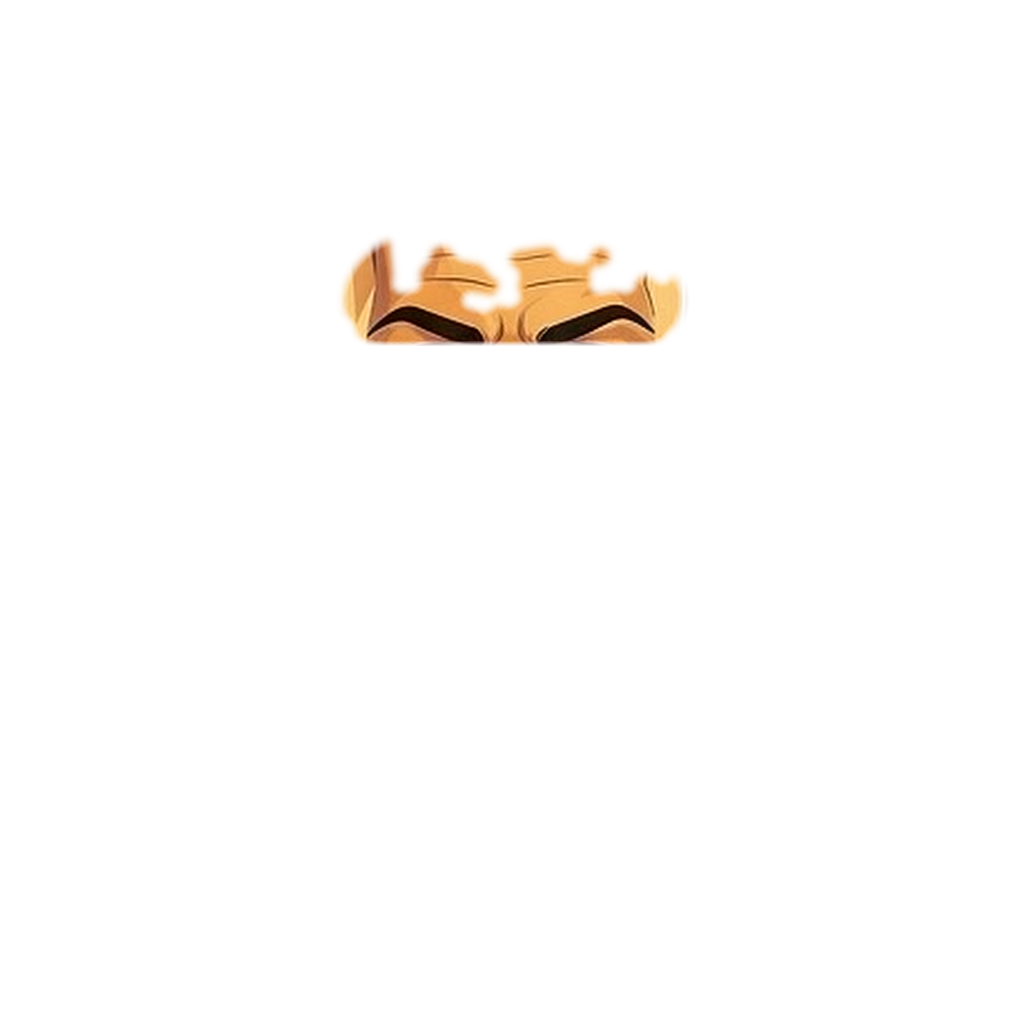
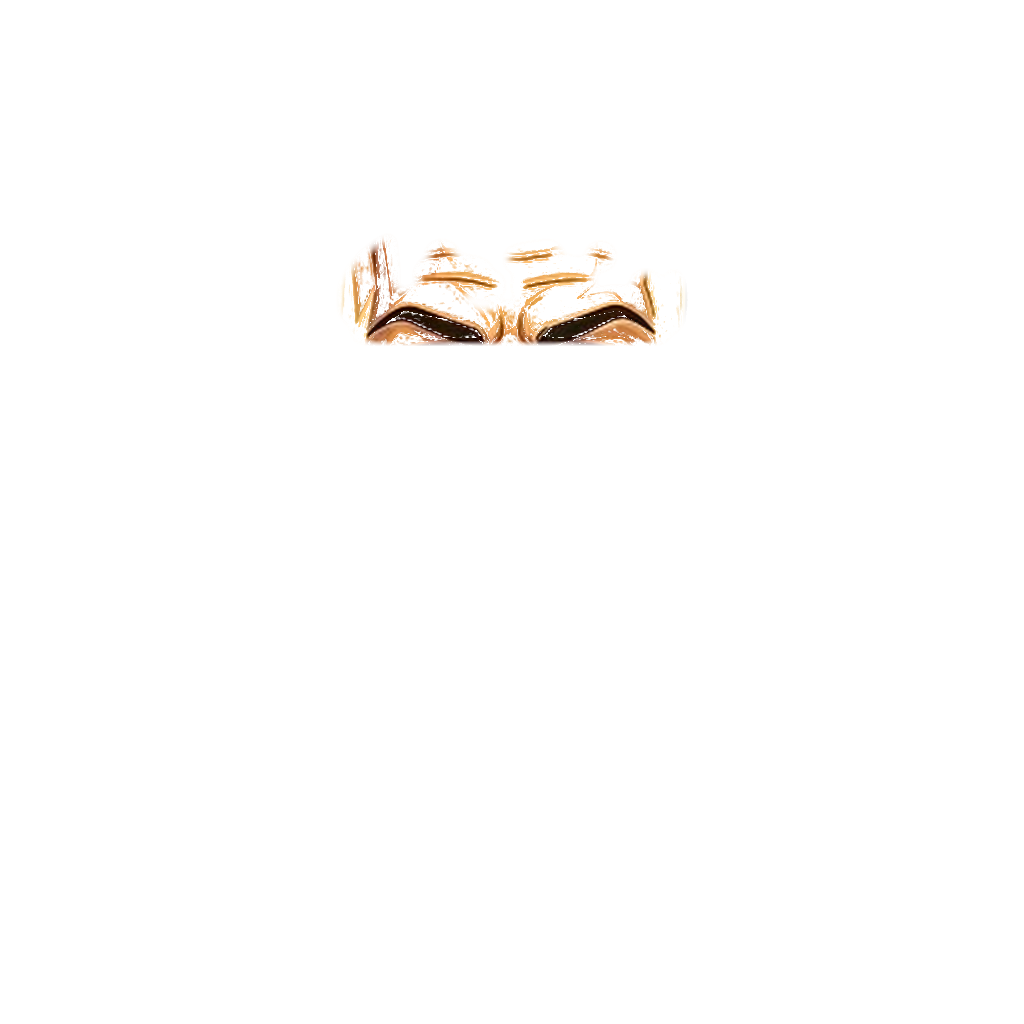
Character layers: base without its own eyes, brows under eyes, softened eye patches (no doubled eyelids)

Changed region(s): [[0.3125, 0.2188, 0.6875, 0.3438]]

diff --git a/js/looks.js b/js/looks.js
@@ -1,17 +1,6 @@
 // Generated by tools/looks.ps1 from assets/postava. Do not edit by hand: add PNG layers and run the script.
 export const LOOK_BASE = 'assets/postava/ucesy/base_head.png';
 export const LOOK_PARTS = [
-  { id: 'oci', name: 'Oči', optional: false, items: [
-    { id: 'eyes_01_sleepy', name: 'sleepy', src: 'assets/postava/oci/eyes_01_sleepy.png' },
-    { id: 'eyes_02_squint', name: 'squint', src: 'assets/postava/oci/eyes_02_squint.png' },
-    { id: 'eyes_03_wide_stare', name: 'wide stare', src: 'assets/postava/oci/eyes_03_wide_stare.png' },
-    { id: 'eyes_04_side_eye', name: 'side eye', src: 'assets/postava/oci/eyes_04_side_eye.png' },
-    { id: 'eyes_05_calm', name: 'calm', src: 'assets/postava/oci/eyes_05_calm.png' },
-    { id: 'eyes_06_tired_bags', name: 'tired bags', src: 'assets/postava/oci/eyes_06_tired_bags.png' },
-    { id: 'eyes_07_cold_light', name: 'cold light', src: 'assets/postava/oci/eyes_07_cold_light.png' },
-    { id: 'eyes_08_wink', name: 'wink', src: 'assets/postava/oci/eyes_08_wink.png' },
-    { id: 'eyes_09_black_eye', name: 'black eye', src: 'assets/postava/oci/eyes_09_black_eye.png' },
-  ] },
   { id: 'obocie', name: 'Obočie', optional: false, items: [
     { id: 'brows_01_angry', name: 'angry', src: 'assets/postava/obocie/brows_01_angry.png' },
     { id: 'brows_02_one_raised', name: 'one raised', src: 'assets/postava/obocie/brows_02_one_raised.png' },
@@ -22,6 +11,17 @@ export const LOOK_PARTS = [
     { id: 'brows_07_faint', name: 'faint', src: 'assets/postava/obocie/brows_07_faint.png' },
     { id: 'brows_08_thin_arched', name: 'thin arched', src: 'assets/postava/obocie/brows_08_thin_arched.png' },
     { id: 'brows_09_heavy_dark', name: 'heavy dark', src: 'assets/postava/obocie/brows_09_heavy_dark.png' },
+  ] },
+  { id: 'oci', name: 'Oči', optional: false, items: [
+    { id: 'eyes_01_sleepy', name: 'sleepy', src: 'assets/postava/oci/eyes_01_sleepy.png' },
+    { id: 'eyes_02_squint', name: 'squint', src: 'assets/postava/oci/eyes_02_squint.png' },
+    { id: 'eyes_03_wide_stare', name: 'wide stare', src: 'assets/postava/oci/eyes_03_wide_stare.png' },
+    { id: 'eyes_04_side_eye', name: 'side eye', src: 'assets/postava/oci/eyes_04_side_eye.png' },
+    { id: 'eyes_05_calm', name: 'calm', src: 'assets/postava/oci/eyes_05_calm.png' },
+    { id: 'eyes_06_tired_bags', name: 'tired bags', src: 'assets/postava/oci/eyes_06_tired_bags.png' },
+    { id: 'eyes_07_cold_light', name: 'cold light', src: 'assets/postava/oci/eyes_07_cold_light.png' },
+    { id: 'eyes_08_wink', name: 'wink', src: 'assets/postava/oci/eyes_08_wink.png' },
+    { id: 'eyes_09_black_eye', name: 'black eye', src: 'assets/postava/oci/eyes_09_black_eye.png' },
   ] },
   { id: 'ucesy', name: 'Účes', optional: false, items: [
     { id: 'hair_01_buzz_fade', name: 'buzz fade', src: 'assets/postava/ucesy/hair_01_buzz_fade.png' },

diff --git a/js/remote.js b/js/remote.js
@@ -1,10 +1,10 @@
 // Online client: the same SimServer, but only as a read-only mirror of the state the real server sent.
 // Every action goes to the Edge Function "game"; its answer replaces the mirror. Things the server rolls
 // at random (mission offers, shop stock, arena opponents, rival gang moves) are never rolled here.
-import { SimServer } from './server.js?v=20261020224942';
-import { NET } from './net.js?v=20261020224942';
-import { CONFIG } from './config.js?v=20261020224942';
-import { SHOPS } from './data.js?v=20261020224942';
+import { SimServer } from './server.js?v=20261020225638';
+import { NET } from './net.js?v=20261020225638';
+import { CONFIG } from './config.js?v=20261020225638';
+import { SHOPS } from './data.js?v=20261020225638';
 
 const SUPABASE_JS = 'https://cdn.jsdelivr.net/npm/@supabase/supabase-js@2.45.4/+esm';
 
@@ -29,7 +29,7 @@ export class RemoteServer extends SimServer {
 
   // ?mock in the address: no Supabase, the server API runs in this browser against an in-memory database
   async initMock() {
-    const { handle, memoryDb } = await import('./api.js?v=20261020224942');
+    const { handle, memoryDb } = await import('./api.js?v=20261020225638');
     const db = memoryDb();
     const fake = { user: { id: 'mock-user', email: 'test@mock' } };
     this.sb = { auth: { signOut: async () => {}, signInWithPassword: async () => ({ data: { session: fake } }), signUp: async () => ({ data: { session: fake } }), resetPasswordForEmail: async () => ({}) } };

diff --git a/js/server.js b/js/server.js
@@ -1,9 +1,9 @@
 // Simulated game server. Every rule about money, rewards and fights lives here, so this module
 // can later move to a real backend (Supabase / Nakama) while the client keeps the same calls.
-import { CONFIG, F, STATS, STAT_NAMES, CLASSES, RARITIES, clamp, localParts } from './config.js?v=20261020224942';
-import { ITEM_BASES, SHOPS, MISSIONS, GIVERS, BOSSES, BOT_NAMES, SLOTS } from './data.js?v=20261020224942';
-import { makeFighter, simulate } from './combat.js?v=20261020224942';
-import { GangMixin } from './gangs.js?v=20261020224942';
+import { CONFIG, F, STATS, STAT_NAMES, CLASSES, RARITIES, clamp, localParts } from './config.js?v=20261020225638';
+import { ITEM_BASES, SHOPS, MISSIONS, GIVERS, BOSSES, BOT_NAMES, SLOTS } from './data.js?v=20261020225638';
+import { makeFighter, simulate } from './combat.js?v=20261020225638';
+import { GangMixin } from './gangs.js?v=20261020225638';
 
 const KEY = 'hitsnlicks.save.v1';
 const MIN = 60000;

diff --git a/js/main.js b/js/main.js
@@ -1,9 +1,9 @@
-import { SimServer } from './server.js?v=20261020224942';
-import { RemoteServer } from './remote.js?v=20261020224942';
-import { ONLINE } from './net.js?v=20261020224942';
-import { CONFIG } from './config.js?v=20261020224942';
-import { UI } from './ui.js?v=20261020224942';
-import { createWorld } from './world.js?v=20261020224942';
+import { SimServer } from './server.js?v=20261020225638';
+import { RemoteServer } from './remote.js?v=20261020225638';
+import { ONLINE } from './net.js?v=20261020225638';
+import { CONFIG } from './config.js?v=20261020225638';
+import { UI } from './ui.js?v=20261020225638';
+import { createWorld } from './world.js?v=20261020225638';
 
 // warm the browser cache so screens open without blank images
 ['maska', 'don', 'diler', 'kladivo', 'fightbg', 'it_pistol', 'it_bat', 'it_jacket', 'it_pants', 'it_sneaker', 'it_chain', 'it_ring', 'it_watch', 'it_duffel', 'it_package', 'it_keys']

diff --git a/js/gangs.js b/js/gangs.js
@@ -1,9 +1,9 @@
 // Gangs (guilds like in Shakes & Fidget) and Gang Wars: turf objects on the map give the whole gang
 // a bonus while it holds them. Rival gangs are computer-run until a real server brings real players.
 // Mixed into SimServer, so `this` is the server.
-import { CONFIG, F, STATS, CLASSES, RARITIES } from './config.js?v=20261020224942';
-import { TURF, TURF_KINDS, RIVAL_GANGS, GANG_COLORS, GANG_UPGRADES, BOT_NAMES } from './data.js?v=20261020224942';
-import { makeFighter, simulate, mulberry32 } from './combat.js?v=20261020224942';
+import { CONFIG, F, STATS, CLASSES, RARITIES } from './config.js?v=20261020225638';
+import { TURF, TURF_KINDS, RIVAL_GANGS, GANG_COLORS, GANG_UPGRADES, BOT_NAMES } from './data.js?v=20261020225638';
+import { makeFighter, simulate, mulberry32 } from './combat.js?v=20261020225638';
 
 const MIN = 60000;
 const ok = (data = {}) => ({ ok: true, ...data });

diff --git a/js/world.js b/js/world.js
@@ -1,7 +1,7 @@
 // The open world: pixel-art city, player movement, NPCs, traffic, police. Uses global Phaser.
 // The city (Mesto 1) comes from assets/world/city.json, made by tools/art/City.cs: a collision grid,
 // a street graph that cars, police, walkers, the Ripper and the runner move on, and the buildings (marks).
-import { NPCS, POIS, SPAWN, LABELS, TURF, TRAFFIC_CARS, POLICE_CARS, WALKER_SPRITES, WALKER_COUNT } from './data.js?v=20261020224942';
+import { NPCS, POIS, SPAWN, LABELS, TURF, TRAFFIC_CARS, POLICE_CARS, WALKER_SPRITES, WALKER_COUNT } from './data.js?v=20261020225638';
 
 const PEOPLE = ['hrac', 'zlodej', 'svalovec', 'dealer', 'boss', 'zadavatel', 'diler', 'mechanik', 'pravnicka', 'lekarka', 'policajt', 'chodkyna', 'chodec'];
 const CARS = ['sedan_blue', 'sedan_red', 'sedan_green', 'sedan_white', 'taxi', 'police', 'van', 'pickup'];

diff --git a/js/ui.js b/js/ui.js
@@ -1,7 +1,7 @@
 // HTML interface: HUD, menus, screens, modals. Talks only to the (simulated) server.
-import { STATS, STAT_NAMES, CLASSES, RARITIES, CONFIG, F } from './config.js?v=20261020224942';
-import { SLOTS, ITEM_BASES, SHOPS, MISSIONS, GIVERS, BOSSES, GANG_COLORS, GANG_RANKS, GANG_UPGRADES } from './data.js?v=20261020224942';
-import { LOOK_BASE, LOOK_PARTS } from './looks.js?v=20261020224942';
+import { STATS, STAT_NAMES, CLASSES, RARITIES, CONFIG, F } from './config.js?v=20261020225638';
+import { SLOTS, ITEM_BASES, SHOPS, MISSIONS, GIVERS, BOSSES, GANG_COLORS, GANG_RANKS, GANG_UPGRADES } from './data.js?v=20261020225638';
+import { LOOK_BASE, LOOK_PARTS } from './looks.js?v=20261020225638';
 
 const $ = (sel, el = document) => el.querySelector(sel);
 const fmt = (n) => Math.round(n).toLocaleString('sk-SK');

diff --git a/index.html b/index.html
@@ -8,7 +8,7 @@
 <link rel="preconnect" href="https://fonts.googleapis.com">
 <link rel="preconnect" href="https://fonts.gstatic.com" crossorigin>
 <link href="https://fonts.googleapis.com/css2?family=Grenze+Gotisch:wght@500;700;900&amp;family=EB+Garamond:ital,wght@0,400;0,500;0,600;0,700;1,400&amp;display=swap" rel="stylesheet">
-<link rel="stylesheet" href="css/style.css?v=20261020224942">
+<link rel="stylesheet" href="css/style.css?v=20261020225638">
 <script src="https://cdn.jsdelivr.net/npm/phaser@3.80.1/dist/phaser.min.js"></script>
 </head>
 <body>
@@ -70,6 +70,6 @@
   <div id="modal" hidden></div>
   <div id="toasts"></div>
 </div>
-<script type="module" src="js/main.js?v=20261020224942"></script>
+<script type="module" src="js/main.js?v=20261020225638"></script>
 </body>
 </html>

diff --git a/js/api.js b/js/api.js
@@ -11,8 +11,8 @@
 //   ladder(n) -> [{ id, name, points }]
 //   addPoints(id, delta)
 //   deletePlayer(id)
-import { SimServer } from './server.js?v=20261020224942';
-import { GIVERS, SHOPS } from './data.js?v=20261020224942';
+import { SimServer } from './server.js?v=20261020225638';
+import { GIVERS, SHOPS } from './data.js?v=20261020225638';
 
 const memStore = { load: () => null, save() {}, clear() {} };
 const fail = (error) => ({ ok: false, error });

diff --git a/js/combat.js b/js/combat.js
@@ -1,5 +1,5 @@
 // Automatic stat-based combat. Pure functions: the real server would run exactly this.
-import { CONFIG, F } from './config.js?v=20261020224942';
+import { CONFIG, F } from './config.js?v=20261020225638';
 
 export function mulberry32(seed) {
   let a = seed >>> 0;

diff --git a/tools/art/Layers.cs b/tools/art/Layers.cs
@@ -1,0 +1,165 @@
+using System;
+using System.Drawing;
+using System.Drawing.Imaging;
+using System.Runtime.InteropServices;
+
+public static class Layers
+{
+    public static int[] Load(string path, out int w, out int h)
+    {
+        using (var src = new Bitmap(path))
+        using (var bmp = new Bitmap(src.Width, src.Height, PixelFormat.Format32bppArgb))
+        {
+            using (var g = Graphics.FromImage(bmp)) g.DrawImage(src, 0, 0, src.Width, src.Height);
+            w = bmp.Width; h = bmp.Height;
+            var d = new int[w * h];
+            var bd = bmp.LockBits(new Rectangle(0, 0, w, h), ImageLockMode.ReadOnly, PixelFormat.Format32bppArgb);
+            Marshal.Copy(bd.Scan0, d, 0, d.Length);
+            bmp.UnlockBits(bd);
+            return d;
+        }
+    }
+
+    public static void Save(int[] d, int w, int h, string path)
+    {
+        using (var bmp = new Bitmap(w, h, PixelFormat.Format32bppArgb))
+        {
+            var bd = bmp.LockBits(new Rectangle(0, 0, w, h), ImageLockMode.WriteOnly, PixelFormat.Format32bppArgb);
+            Marshal.Copy(d, 0, bd.Scan0, d.Length);
+            bmp.UnlockBits(bd);
+            bmp.Save(path, ImageFormat.Png);
+        }
+    }
+
+    static int Diff(int a, int b)
+    {
+        return Math.Abs(((a >> 16) & 255) - ((b >> 16) & 255)) + Math.Abs(((a >> 8) & 255) - ((b >> 8) & 255)) + Math.Abs((a & 255) - (b & 255));
+    }
+
+    // keep only what a layer really changes: pixels equal to the base fade out (diff lo..hi -> alpha 0..1)
+    public static string Trim(string basePath, string layerPath, string outPath, int lo, int hi)
+    {
+        int w, h, w2, h2;
+        var b = Load(basePath, out w, out h);
+        var l = Load(layerPath, out w2, out h2);
+        int kept = 0, cut = 0;
+        for (int i = 0; i < l.Length; i++)
+        {
+            int c = l[i]; int a = (c >> 24) & 255;
+            if (a == 0) continue;
+            int d = Diff(c, b[i]);
+            double k = d <= lo ? 0 : d >= hi ? 1 : (d - lo) / (double)(hi - lo);
+            int na = (int)Math.Round(a * k);
+            if (na < a) cut++; if (na > 0) kept++;
+            l[i] = (na << 24) | (c & 0xFFFFFF);
+        }
+        Save(l, w2, h2, outPath);
+        return kept + " kept, " + cut + " faded";
+    }
+
+    // paint over a box with skin interpolated from its edges (vertical and horizontal blend), soft border
+    public static void Erase(int[] d, int w, int x0, int y0, int x1, int y1, int feather)
+    {
+        var src = (int[])d.Clone();
+        for (int y = y0; y <= y1; y++)
+            for (int x = x0; x <= x1; x++)
+            {
+                double ty = (y - y0 + 1) / (double)(y1 - y0 + 2), tx = (x - x0 + 1) / (double)(x1 - x0 + 2);
+                int T = src[(y0 - 1) * w + x], B = src[(y1 + 1) * w + x], L = src[y * w + x0 - 1], R = src[y * w + x1 + 1];
+                double wy = 1.0 / (Math.Min(ty, 1 - ty) + 0.05), wx = 1.0 / (Math.Min(tx, 1 - tx) + 0.05);
+                // blend along the shorter direction more strongly
+                double k = wy / (wy + wx);
+                int c = 0;
+                for (int sh = 0; sh <= 16; sh += 8)
+                {
+                    double v = ((T >> sh) & 255) * (1 - ty) + ((B >> sh) & 255) * ty;
+                    double hh = ((L >> sh) & 255) * (1 - tx) + ((R >> sh) & 255) * tx;
+                    c |= ((int)Math.Round(v * k + hh * (1 - k)) & 255) << sh;
+                }
+                // soft edge back into the original picture
+                int e = Math.Min(Math.Min(x - x0, x1 - x), Math.Min(y - y0, y1 - y));
+                double m = e >= feather ? 1 : (e + 1) / (double)(feather + 1);
+                int o = src[y * w + x], r = 0;
+                for (int sh = 0; sh <= 16; sh += 8) r |= ((int)Math.Round(((c >> sh) & 255) * m + ((o >> sh) & 255) * (1 - m)) & 255) << sh;
+                d[y * w + x] = unchecked((int)0xFF000000) | r;
+            }
+    }
+
+    // fill an ellipse-ish box with plain skin: the median of the light pixels around it, a touch darker at the bottom
+    public static void Skin(int[] d, int w, int x0, int y0, int x1, int y1, int feather)
+    {
+        var rs = new System.Collections.Generic.List<int>(); var gs = new System.Collections.Generic.List<int>(); var bs = new System.Collections.Generic.List<int>();
+        for (int y = y0 - 12; y <= y1 + 12; y++) for (int x = x0 - 12; x <= x1 + 12; x++)
+            {
+                if (x >= x0 && x <= x1 && y >= y0 && y <= y1) continue;
+                int c = d[y * w + x], r = (c >> 16) & 255, g = (c >> 8) & 255, b = c & 255;
+                if (0.299 * r + 0.587 * g + 0.114 * b < 95) continue; // skip ink lines and brows, keep the mid tones
+                rs.Add(r); gs.Add(g); bs.Add(b);
+            }
+        rs.Sort(); gs.Sort(); bs.Sort();
+        int R = rs[rs.Count / 2], G = gs[gs.Count / 2], B = bs[bs.Count / 2];
+        double cx = (x0 + x1) / 2.0, cy = (y0 + y1) / 2.0, ax = (x1 - x0) / 2.0, ay = (y1 - y0) / 2.0;
+        for (int y = y0 - feather; y <= y1 + feather; y++)
+            for (int x = x0 - feather; x <= x1 + feather; x++)
+            {
+                double nx = (x - cx) / (ax + feather), ny = (y - cy) / (ay + feather);
+                double dist = Math.Sqrt(nx * nx + ny * ny);
+                double inner = 1 - feather / (Math.Min(ax, ay) + feather);
+                double m = dist <= inner ? 1 : dist >= 1 ? 0 : (1 - dist) / (1 - inner);
+                if (m <= 0) continue;
+                double shade = 1 - 0.08 * Math.Max(0, (y - cy) / ay); // slightly darker under the eye
+                int o = d[y * w + x];
+                int r2 = (int)Math.Round(R * shade * m + ((o >> 16) & 255) * (1 - m));
+                int g2 = (int)Math.Round(G * shade * m + ((o >> 8) & 255) * (1 - m));
+                int b2 = (int)Math.Round(B * shade * m + (o & 255) * (1 - m));
+                d[y * w + x] = unchecked((int)0xFF000000) | (r2 << 16) | (g2 << 8) | b2;
+            }
+    }
+
+    public static void CleanBase(string inPath, string outPath, int[] boxes, int feather)
+    {
+        int w, h;
+        var d = Load(inPath, out w, out h);
+        for (int i = 0; i + 3 < boxes.Length; i += 4) Skin(d, w, boxes[i], boxes[i + 1], boxes[i + 2], boxes[i + 3], feather);
+        Save(d, w, h, outPath);
+    }
+
+    // fade a layer in from transparent at row y0 to its own alpha at row y1 (hides a hard top edge)
+    public static void FadeTop(string inPath, string outPath, int y0, int y1)
+    {
+        int w, h;
+        var d = Load(inPath, out w, out h);
+        for (int y = 0; y < Math.Min(h, y1); y++)
+        {
+            double k = y <= y0 ? 0 : (y - y0) / (double)(y1 - y0);
+            for (int x = 0; x < w; x++)
+            {
+                int c = d[y * w + x], a = (c >> 24) & 255;
+                if (a == 0) continue;
+                d[y * w + x] = ((int)Math.Round(a * k) << 24) | (c & 0xFFFFFF);
+            }
+        }
+        Save(d, w, h, outPath);
+    }
+
+    // opaque bbox, and bbox of pixels that really differ from the base, plus a row histogram of the differing pixels
+    public static string Stats(string basePath, string layerPath, int thr)
+    {
+        int w, h, w2, h2;
+        var b = Load(basePath, out w, out h);
+        var l = Load(layerPath, out w2, out h2);
+        int ox0 = w, oy0 = h, ox1 = -1, oy1 = -1, dx0 = w, dy0 = h, dx1 = -1, dy1 = -1, n = 0, nd = 0;
+        var rows = new int[h / 16 + 1];
+        for (int y = 0; y < h; y++) for (int x = 0; x < w; x++)
+            {
+                int c = l[y * w + x];
+                if (((c >> 24) & 255) < 20) continue;
+                n++;
+                ox0 = Math.Min(ox0, x); ox1 = Math.Max(ox1, x); oy0 = Math.Min(oy0, y); oy1 = Math.Max(oy1, y);
+                if (Diff(c, b[y * w + x]) > thr) { nd++; dx0 = Math.Min(dx0, x); dx1 = Math.Max(dx1, x); dy0 = Math.Min(dy0, y); dy1 = Math.Max(dy1, y); rows[y / 16]++; }
+            }
+        var sb = new System.Text.StringBuilder();
+        for (int i = 0; i < rows.Length; i++) if (rows[i] > 0) sb.Append(i * 16).Append(':').Append(rows[i]).Append(' ');
+        return string.Format("opaque {0} [{1},{2}..{3},{4}] differ {5} [{6},{7}..{8},{9}] rows {10}", n, ox0, oy0, ox1, oy1, nd, dx0, dy0, dx1, dy1, sb);
+    }
+}
